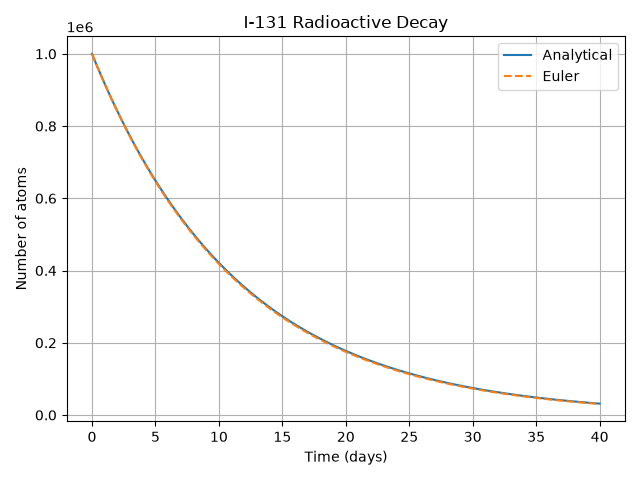
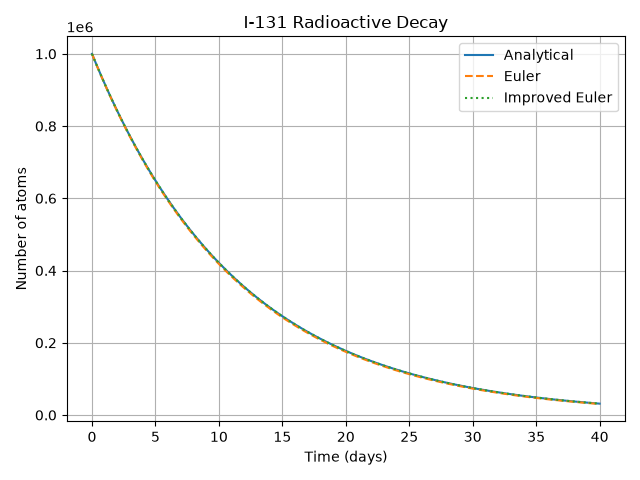
Compare improved and foward Euler methods

diff --git a/decay_simulation.py b/decay_simulation.py
@@ -1,79 +1,82 @@
 import numpy as np
 import matplotlib.pyplot as plt
 
-
+# Foward Euler method
 def forward_euler(time, initial_value, decay_constant):
     result = np.zeros_like(time)
     result[0] = initial_value
     dt = time[1] - time[0]
 
     for i in range(len(time) - 1):
-        result[i + 1] = (
-            result[i] + dt * (-decay_constant * result[i])
-        )
+        result[i + 1] = (result[i] + dt * (-decay_constant * result[i]))
 
     return result
 
+# Improved Euler method
+def improved_euler(time, initial_value, decay_constant):
+    result = np.zeros_like(time)
+    result[0] = initial_value
+    dt = time[1] - time[0]
 
-# Physical parameters
+    for i in range(len(time) - 1):
+        k1 = (-decay_constant * result[i])
+
+        predicted = result[i] + (dt * k1)
+
+        k2 = (-decay_constant * predicted)
+
+        result[i + 1] = result[i] + ((0.5 * dt) * (k1+k2))
+
+    return result
+
+# Initial values
 atoms_initial = 1_000_000
 half_life = 8.02
 decay_constant = np.log(2) / half_life
 
-# Main analytical and Euler solutions
+# Main and Euler solutions
 time = np.linspace(0, 40, 200)
 
 atoms = atoms_initial * np.exp(-decay_constant * time)
-atoms_euler = forward_euler(
-    time,
-    atoms_initial,
-    decay_constant
-)
-
-# Convergence study
+atoms_euler = forward_euler(time,atoms_initial,decay_constant)
+atoms_improved_euler = improved_euler(time, atoms_initial, decay_constant)
+# Convergence
 point_counts = [10, 20, 50, 100, 200]
 time_steps = []
-errors = []
+forward_errors = []
+improved_errors = []
 
 for points in point_counts:
     test_time = np.linspace(0, 40, points)
 
-    test_euler = forward_euler(
-        test_time,
-        atoms_initial,
-        decay_constant
-    )
+    test_euler = forward_euler(test_time, atoms_initial, decay_constant)
 
-    exact_final = (
-        atoms_initial
-        * np.exp(-decay_constant * test_time[-1])
-    )
+    improved_test_euler = improved_euler(test_time, atoms_initial, decay_constant)
 
-    percent_error = (
-        abs(test_euler[-1] - exact_final)
-        / exact_final
-        * 100
-    )
+    exact_final = (atoms_initial * np.exp(-decay_constant * test_time[-1]))
+
+    forward_error = (abs(test_euler[-1] - exact_final) / exact_final * 100)
+
+
+    improved_error = (abs(improved_test_euler[-1] - exact_final) / exact_final * 100)
 
     time_steps.append(test_time[1] - test_time[0])
-    errors.append(percent_error)
+    forward_errors.append(forward_error)
+    improved_errors.append(improved_error)
 
-    print(f"{points} points: {percent_error:.4f}% error")
-
+print(f"{points} points: "f"Forward = {forward_error:.4f}%, "f"Improved = {improved_error:.4f}%")
 # Calculate convergence order after collecting all results
-order = np.polyfit(
-    np.log(time_steps),
-    np.log(errors),
-    1
-)[0]
-
-print(f"Observed convergence order: {order:.3f}")
+forward_order = np.polyfit(np.log(time_steps),np.log(forward_errors), 1)[0]
+improved_order = np.polyfit(np.log(time_steps), np.log(improved_errors), 1)[0]
+print(f"Forward Euler order: {forward_order:.3f}")
+print(f"Improved Euler order: {improved_order:.3f}")
 print(f"Decay constant: {decay_constant:.5f} per day")
 
-# Decay comparison plot
+# Decay plot(s)
 plt.figure()
 plt.plot(time, atoms, label="Analytical")
 plt.plot(time, atoms_euler, "--", label="Euler")
+plt.plot(time, atoms_improved_euler, ":", label="Improved Euler")
 plt.xlabel("Time (days)")
 plt.ylabel("Number of atoms")
 plt.title("I-131 Radioactive Decay")
@@ -83,12 +86,14 @@ plt.tight_layout()
 plt.savefig("decay_curve.png")
 plt.close()
 
-# Convergence plot
+# Convergence plot(s)
 plt.figure()
-plt.loglog(time_steps, errors, marker="o")
+plt.loglog(time_steps, forward_errors, marker="o", label="Forward Euler")
+plt.loglog(time_steps, improved_errors, marker="s", label="Improved Euler")
+plt.legend()
 plt.xlabel("Time-step size (days)")
 plt.ylabel("Final percent error")
-plt.title("Forward Euler Convergence")
+plt.title("Euler Method Convergence Comparison")
 plt.grid(True, which="both")
 plt.tight_layout()
 plt.savefig("euler_convergence.png")
